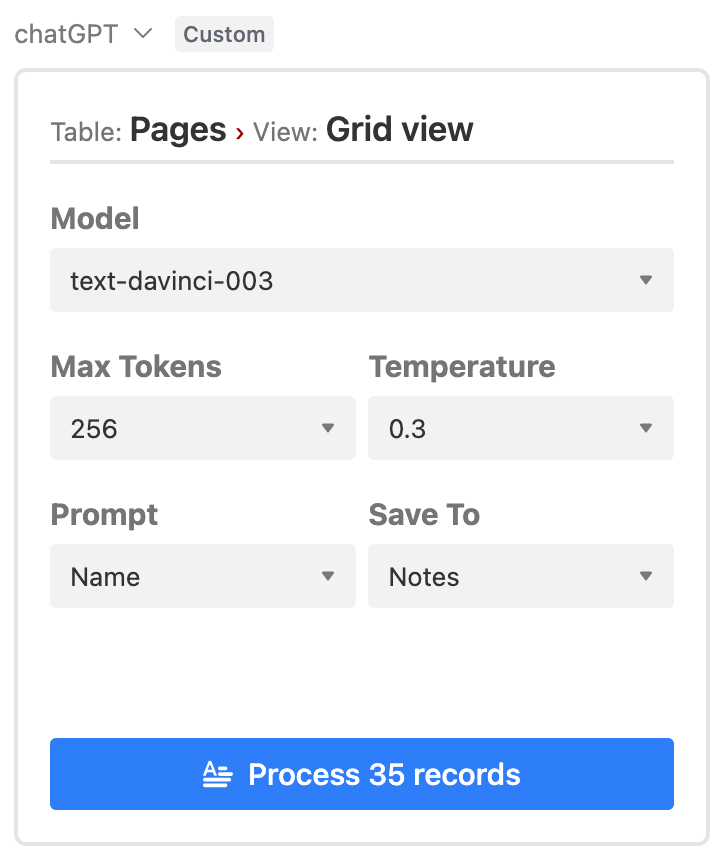
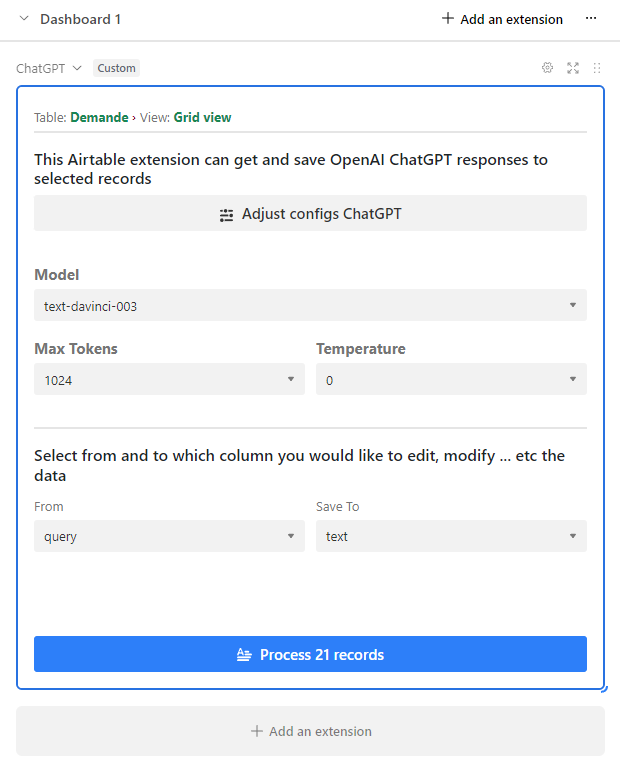
update component.js UI

diff --git a/frontend/components.js b/frontend/components.js
@@ -14,6 +14,8 @@ import {
 } from "@airtable/blocks/ui";
 import "../node_modules/bootstrap/dist/css/bootstrap.min.css";
 import Collapse from "react-bootstrap/Collapse";
+import Badge from 'react-bootstrap/Badge';
+import Alert from 'react-bootstrap/Alert';
 //import {Configuration, OpenAIApi} from 'openai';
 
 const DAVINCI = "text-davinci-003";
@@ -160,24 +162,21 @@ export function MainContainer({ table, view }) {
   return (
     <Box padding="3">
       <Box marginBottom="3" borderBottom="thick">
-        <Heading size="small">
-          <Text textColor="light" as="span">
+        <Heading size="large">
+          <Text className="h6" textColor="light" as="span">
             Table:{" "}
-            <span className="text-success">
-              <strong> {table.name} </strong>{" "}
-            </span>
+            <Badge pill bg="primary">
+                {table.name}
+            </Badge>
           </Text>
-          <Text textColor="darkred" as="span">
-            {" "}
-            ›{" "}
+          <Text className="h6" textColor="darkred" as="span">
+                {" "} › {" "}
           </Text>
-
-          <Text textColor="light" as="span">
+          <Text className="h6" textColor="light" as="span">
             View:{" "}
-            <span className="text-success">
-              {" "}
-              <strong> {view.name} </strong>{" "}
-            </span>
+            <Badge pill bg="success">
+                {view.name}
+            </Badge>
           </Text>
         </Heading>
       </Box>
@@ -202,8 +201,7 @@ export function MainContainer({ table, view }) {
           <Box paddingBottom="3" paddingTop="3" id="collapsePanel">
             <Box paddingBottom="3">
               <Heading size="xsmall" textColor="light">
-                {" "}
-                Model{" "}
+                Model 
               </Heading>
               <SelectSynced
                 options={models}
@@ -215,41 +213,54 @@ export function MainContainer({ table, view }) {
             <Box paddingBottom="3" display="flex">
               <Box width="100%">
                 <Heading size="xsmall" textColor="light">
-                  {" "}
-                  Max Tokens{" "}
+                  Max Tokens 
                 </Heading>
                 <SelectSynced
                   options={tokens}
                   globalConfigKey="maxTokens"
                   placeholder="Max Tokens"
                 />
+                <Heading size="small" textColor="light">
+                    <Text textColor="light" as="span">
+                        Default value = 1024
+                    </Text>
+                </Heading>
               </Box>
               <Box width="100%" marginLeft="2%">
                 <Heading size="xsmall" textColor="light">
-                  {" "}
-                  Temperature{" "}
+                  Temperature
                 </Heading>
                 <SelectSynced
                   options={temps}
                   globalConfigKey="temperature"
                   placeholder="Temperature"
                 />
+                <Heading size="small" textColor="light">
+                    <Text textColor="light" as="span">
+                        Default value = 0
+                    </Text>
+                </Heading>
               </Box>
             </Box>
+            <Alert variant="secondary">
+                <Text className="h6">Temperature</Text>
+                <Text size="small">
+                    The lower the temperature, the more likely GPT-3 will choose words with a higher probability of occurrence. The temperature determines how greedy the generative model is.
+                </Text>
+                <Text className="h6">max_tokens</Text>
+                <Text size="small">
+                    You're allowed to have up to 2048 tokens or about 1500 words in your prompt when you run, and that includes any generated text.
+                </Text>
+            </Alert>
           </Box>
         </Collapse>
       </Box>
-
-      <p className="h6 mb-2">
-        Select from and to which column you would like to edit, modify ... etc
-        the data
-      </p>
 
       <Box paddingBottom="3" display="flex">
         <Box width="49%">
           <Heading size="small" textColor="light">
             <Text textColor="light" as="span">
-              From
+              From 
             </Text>
           </Heading>
           <FieldPickerSynced table={table} globalConfigKey="fieldFrom" />
@@ -257,8 +268,7 @@ export function MainContainer({ table, view }) {
         <Box width="49%" marginLeft="2%">
           <Heading size="small" textColor="light">
             <Text textColor="light" as="span">
-              {" "}
-              Save To{" "}
+              Save To
             </Text>
           </Heading>
           <FieldPickerSynced
